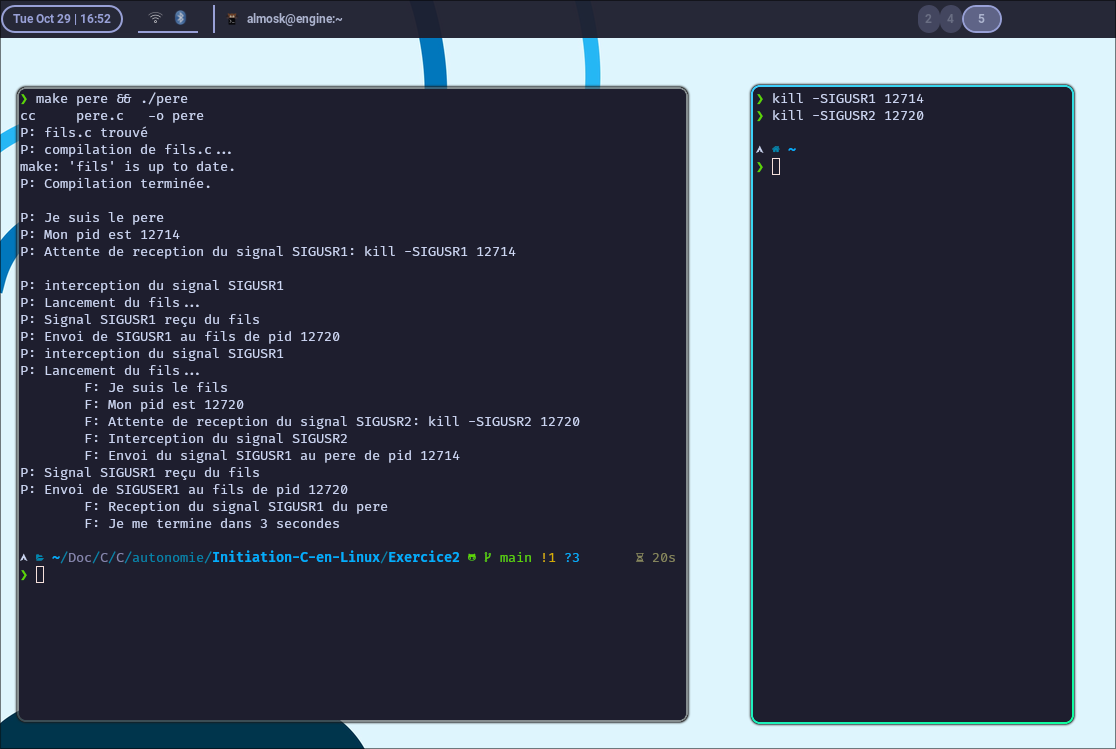
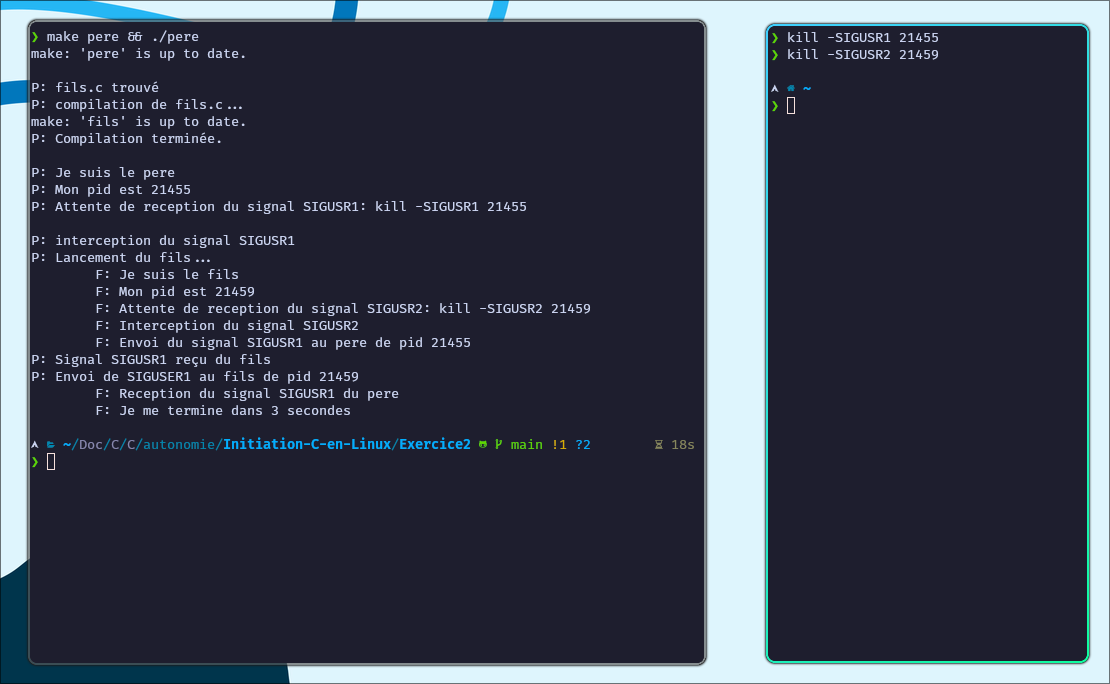
Fix: clean code

Changed region(s): [[0.0, 0.0, 1.0, 1.0]]

diff --git a/Exercice2/pere.c b/Exercice2/pere.c
@@ -46,21 +46,18 @@ void trait_signal_sigusr1() {
     int status_fils;
     /* Premier signal SIGUSR1 */
     if (step == 0) {
-        step++;
         pid_fils = fork();
 
         /* Reception du 1er signal SIGUSER1 qui */
-        printf("P: interception du signal SIGUSR1\n");
-        printf("P: Lancement du fils...\n");
         if (pid_fils == 0) {
             /* si processus fils */
+            printf("P: interception du signal SIGUSR1\n");
+            printf("P: Lancement du fils...\n");
             execl("./fils", "fils", NULL);
         }
         if (pid_fils > 0) {
             /* si processus père */
-            printf("P: Signal SIGUSR1 reçu du fils\n");
-            printf("P: Envoi de SIGUSR1 au fils de pid %d\n", pid_fils);
-            kill(pid_fils, SIGUSR1); /* Envoi du signal SIGUSR1 au fils */
+            step++;
         }
         /* Deuxième signal SIGUSR1 */
     } else if (step == 1) {
@@ -73,6 +70,8 @@ void trait_signal_sigusr1() {
 }
 
 int main() {
+    printf("\n");
+
     signal(SIGUSR1, trait_signal_sigusr1);
 
     /* Vérification de l'existence du fichier fils et compilation */
